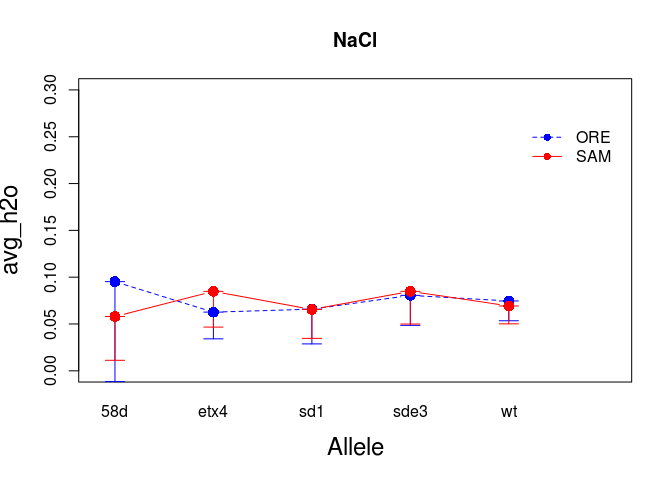
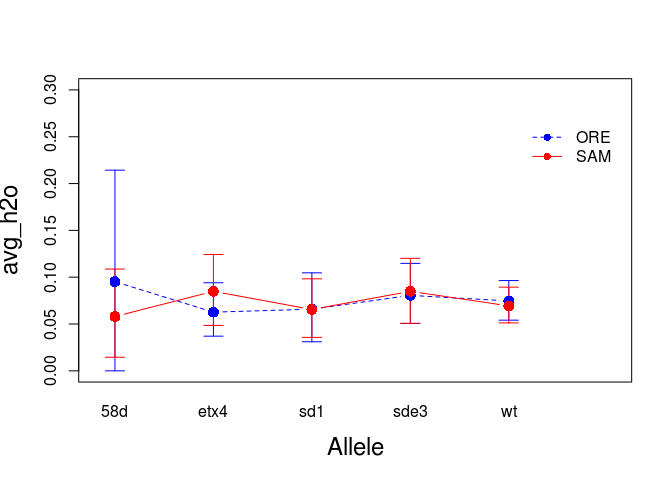
changed which files are placed in online repo (.gitignore) and simplified my function to generate bootstrapped confidence intervals (.rmd) which modified my figures.Also added more detailed explanation of what my code was doing for the average water responses and removed their main titles, which I f

diff --git a/PERA_Exploratory_Data_Analysis_MF.md b/PERA_Exploratory_Data_Analysis_MF.md
@@ -3,8 +3,7 @@ PERA\_Exploratory\_Data\_Analysis
 Megan Fritz
 December 19, 2017
 
-Loading in data sets
-====================
+Start by loading in data sets and libraries.
 
 ``` r
 #use this to specify the path to your data file
@@ -64,23 +63,104 @@ probos_N <- subset(NaCl_data_pres, receptor == "prob")
 probos_K <- subset(KCl_data_pres, receptor == "prob")
 ```
 
-Average Per Fly Responses to water applied to the labellar sensilla.
+Here I generated a custom bootstrap function that can be used in our plot of average responses to each tastant: water, sugar, and salt.
 
 ``` r
+#writing bootstrapped 95% CI function
+boot.fn <- function(x, N=5000) {
+  Int.1 <- replicate(N, mean(sample(x, size= length(x), replace=T)))
+  Int.CI <- quantile(Int.1, probs=c(0.025,0.975))
+  Int.CI
+}
+```
+
+Then I applied the mean and bootstrap functions to my dataset to calculate and plot average per fly response to water when applied to the labellar sensilla. Note that the plots allow us to visualize whether there is an interaction between allele and genetic background. Responses to water are plotted separately for each of two experiments - one where the aversive tastant was NaCl and another where the aversive tastant was KCl.
+
+``` r
+#printing overall means and CIs
+mean.avg_h2o.NaCl <- tapply(probos_N$avg_h2o, probos_N$Allele, mean)
+CI.avg_h2o.NaCl <- tapply(probos_N$avg_h2o, probos_N$Allele, boot.fn)
+mean.avg_h2o.NaCl
+```
+
+    ##        58d       etx4        sd1       sde3         wt 
+    ## 0.06666667 0.07342144 0.06565657 0.08303887 0.07166667
+
+``` r
+CI.avg_h2o.NaCl
+```
+
+    ## $`58d`
+    ##       2.5%      97.5% 
+    ## 0.02777778 0.11111111 
+    ## 
+    ## $etx4
+    ##       2.5%      97.5% 
+    ## 0.05139501 0.09838473 
+    ## 
+    ## $sd1
+    ##       2.5%      97.5% 
+    ## 0.04377104 0.08922559 
+    ## 
+    ## $sde3
+    ##       2.5%      97.5% 
+    ## 0.05946702 0.10777385 
+    ## 
+    ## $wt
+    ##       2.5%      97.5% 
+    ## 0.05777778 0.08666667
+
+``` r
+#Plot to view interactions between background and allele for water responses in NaCl assay
 lineplot.CI(Allele, avg_h2o, group = Background, data = probos_N, cex = 1.5, xlab = "Allele", 
                      ylab = "avg_h2o", ylim = c(0, 0.3), cex.lab = 1.5, 
                      col = c("blue",  "red"), 
-                     pch = c(16,16,16,16,16), main="NaCl",
-                     ci.fun= function(x) c(mean(x)-(1.96*(se(x))), mean(x),(1.96*se(x))))
+                     pch = c(16,16,16,16,16),
+                     ci.fun= boot.fn)
 ```
 
 ![](PERA_Exploratory_Data_Analysis_MF_files/figure-markdown_github/avg_responses-1.png)
 
 ``` r
+#printing overall means and CIs
+mean.avg_h2o.KCl <- tapply(probos_K$avg_h2o, probos_K$Allele, mean)
+CI.avg_h2o.KCl <- tapply(probos_K$avg_h2o, probos_K$Allele, boot.fn)
+mean.avg_h2o.KCl
+```
+
+    ##        58d       etx4        sd1       sde3         wt 
+    ## 0.07751938 0.09696970 0.09929078 0.08983452 0.08981380
+
+``` r
+CI.avg_h2o.KCl
+```
+
+    ## $`58d`
+    ##       2.5%      97.5% 
+    ## 0.04651163 0.11240310 
+    ## 
+    ## $etx4
+    ##       2.5%      97.5% 
+    ## 0.06666667 0.13030303 
+    ## 
+    ## $sd1
+    ##       2.5%      97.5% 
+    ## 0.07328605 0.12647754 
+    ## 
+    ## $sde3
+    ##       2.5%      97.5% 
+    ## 0.06619385 0.11583924 
+    ## 
+    ## $wt
+    ##       2.5%      97.5% 
+    ## 0.07667032 0.10332238
+
+``` r
+#Plot to view interactions between background and allele for water responses in KCl assay
 lineplot.CI(Allele, avg_h2o, group = Background, data = probos_K, cex = 1.5, xlab = "Allele", 
                      ylab = "avg_h2o", ylim = c(0, 0.3), cex.lab = 1.5, 
-                     col = c("blue", "red"), pch = c(16,16,16,16), main = "KCl",
-                     ci.fun= function(x) c(mean(x)-(1.96*(se(x))), mean(x)+(1.96*se(x))))
+                     col = c("blue", "red"), pch = c(16,16,16,16),
+                     ci.fun= boot.fn)
 ```
 
 ![](PERA_Exploratory_Data_Analysis_MF_files/figure-markdown_github/avg_responses-2.png)
